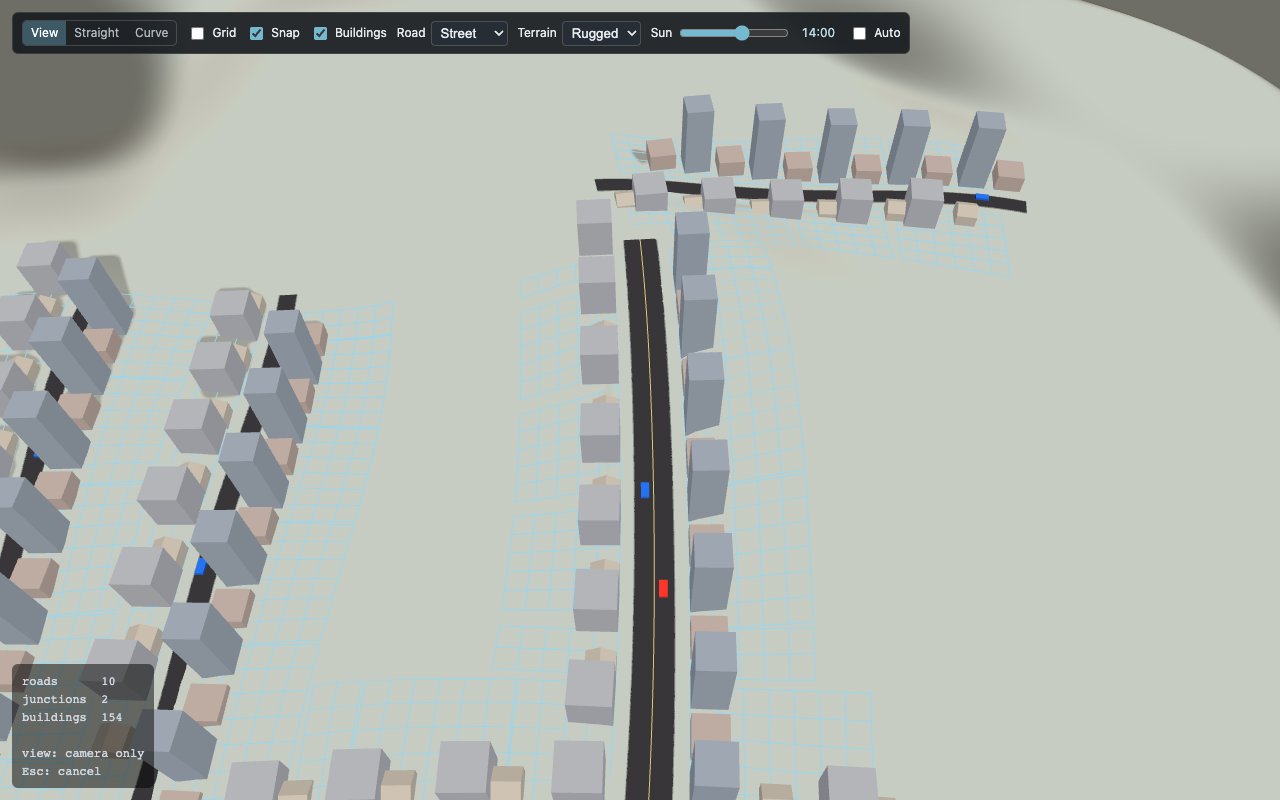
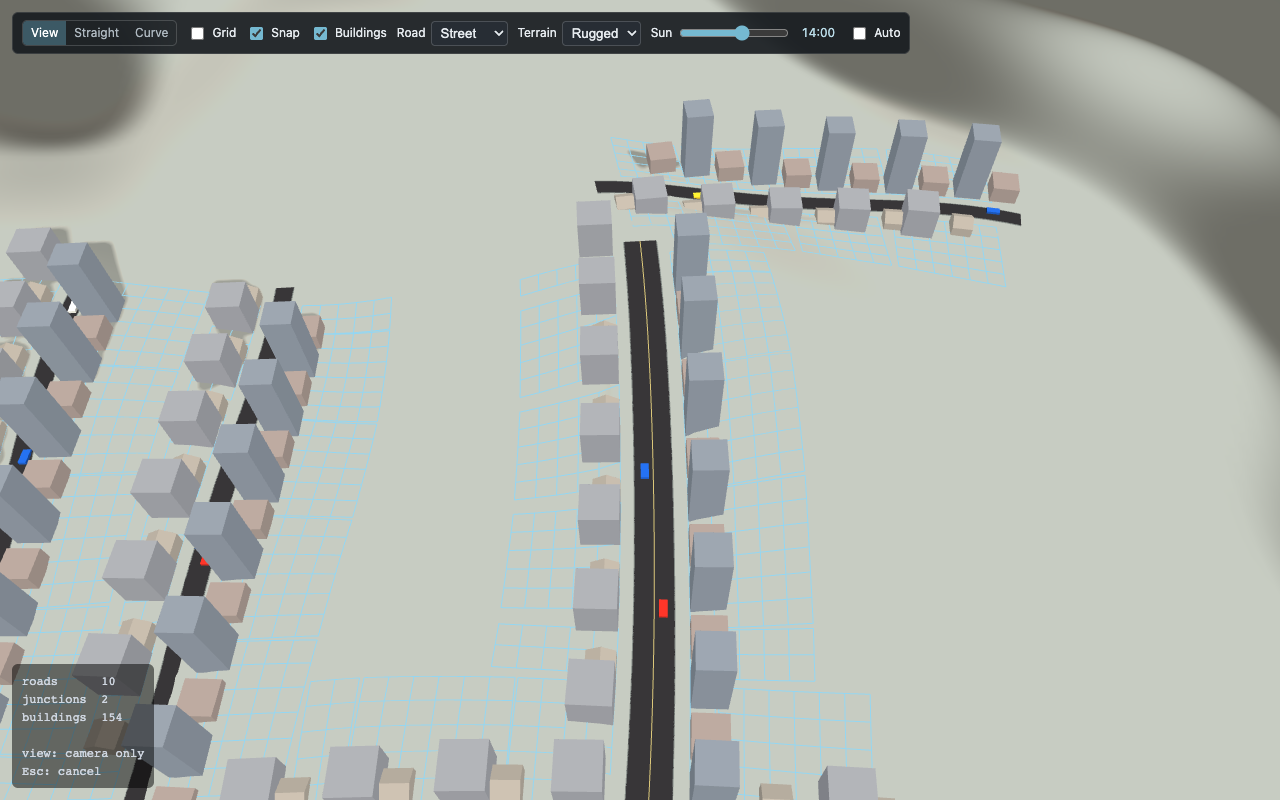
Make rugged terrain more organic

diff --git a/src/sim/heightmap.ts b/src/sim/heightmap.ts
@@ -153,10 +153,20 @@ const smoothstep = (t: number): number => {
  * Gentle rolling ground. Deliberately not steeper than the drawing rules allow over the
  * distance a road spans, so a map is buildable rather than mostly refused.
  */
-export function rollingHills(amplitude = 6, wavelength = 900): (x: number, z: number) => number {
+export function rollingHills(amplitude = 6, wavelength = 900, roughness = 0): (x: number, z: number) => number {
   const k = (Math.PI * 2) / wavelength;
+  const roughFeatures = Array.from({ length: roughness ? 18 : 0 }, (_, i) => ({
+    x: (randomish(i, 1) - 0.5) * 1900,
+    z: (randomish(i, 2) - 0.5) * 1900,
+    height: (randomish(i, 3) * 2 - 1) * roughness,
+    radius: 150 + randomish(i, 4) * 210,
+  }));
   return (x, z) => {
     const hills = amplitude * (Math.sin(x * k) * Math.cos(z * k * 0.8) + 0.45 * Math.sin((x + z) * k * 1.7));
+    const rough = roughFeatures.reduce(
+      (sum, p) => sum + p.height * Math.exp(-((x - p.x) ** 2 + (z - p.z) ** 2) / (2 * p.radius * p.radius)),
+      0,
+    );
     const peak = (cx: number, cz: number, height: number, radius: number) =>
       height * Math.exp(-((x - cx) ** 2 + (z - cz) ** 2) / (2 * radius * radius));
     const ridge = 64 * Math.exp(-((x + z * 0.28) ** 2) / (2 * 360 * 360)) * Math.exp(-(z * z) / (2 * 1520 * 1520));
@@ -169,6 +179,18 @@ export function rollingHills(amplitude = 6, wavelength = 900): (x: number, z: nu
     const r = Math.hypot(x, z);
     const coast = smoothstep((r - 1520) / 520);
     const deep = smoothstep((r - 1960) / 720);
-    return 10 + mountain + hills - coast * 60 - deep * 90;
+    let base = 10 + mountain + hills - coast * 60 - deep * 90;
+    if (roughness) {
+      const lakeGuard = (SEA_LEVEL + 8 - base) * (1 - smoothstep((r - 1180) / 360));
+      if (lakeGuard > 0) base += lakeGuard;
+    }
+    const mountainMask = smoothstep((base - 52) / 34);
+    const inlandMask = 1 - smoothstep((r - 1120) / 520);
+    return base + rough * mountainMask * inlandMask;
   };
+}
+
+function randomish(index: number, salt: number): number {
+  const value = Math.sin(index * 127.1 + salt * 311.7) * 43758.5453;
+  return value - Math.floor(value);
 }

diff --git a/src/app/app.ts b/src/app/app.ts
@@ -80,7 +80,7 @@ export async function startApp(): Promise<void> {
       }
       tool.cancel();
       for (const segment of graph.allSegments()) graph.removeSegment(segment.id);
-      heightmap.regenerate(preset === "rugged" ? rollingHills(18, 450) : rollingHills());
+      heightmap.regenerate(preset === "rugged" ? rollingHills(18, 450, 18) : rollingHills());
       frameTerrain();
       rebuild();
       return true;

diff --git a/src/sim/heightmap.test.ts b/src/sim/heightmap.test.ts
@@ -155,7 +155,7 @@ describe("heightmap", () => {
   it("can regenerate a substantially more rugged test terrain", () => {
     const h = new Heightmap({ size: 800, cell: 8, generator: rollingHills() });
     const before = h.baseAt(...gridOf(h, 120, 80));
-    h.regenerate(rollingHills(18, 450));
+    h.regenerate(rollingHills(18, 450, 18));
 
     let low = Infinity;
     let high = -Infinity;
